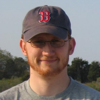
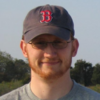
tweaks

diff --git a/_layouts/default.html b/_layouts/default.html
@@ -69,7 +69,7 @@ _kms('//i.kissmetrics.com/i.js');_kms('//doug1izaerwt3.cloudfront.net/eabaae3d40
 <body>
 	<div id="page" class="container xshowgrid">
     <div id="header" class="span-24">
-			<a href="/">graysky</a><span id="tagline">the blog of mike champion</span>
+			<a href="/">graysky</a><span id="tagline">interests &#62; time</span>
     </div>
     <hr />
 		
@@ -82,9 +82,9 @@ _kms('//i.kissmetrics.com/i.js');_kms('//doug1izaerwt3.cloudfront.net/eabaae3d40
 	{% if site.about_page != page.permalink %}
 
 	<h3>Welcome</h3>
-	<p>Hi, my name is <a href="/mike-champion">Mike Champion</a>. I work at <a href="http://oneforty.com">oneforty</a>, a web startup in Cambridge. <br /><a href="/mike-champion">Read more &raquo;</a>
-
-	<p><a href="http://twitter.com/graysky"><img src='/images/twitter_small.png' width='16px' height='16px' style="vertical-align:middle;border:0;margin:0 1px 4px 0;padding:0" /></a> <a href="http://twitter.com/graysky">Follow @graysky on Twitter</a></p>
+	<p>Hi, I'm <a href="/mike-champion">Mike Champion</a>. I work at <a href="http://oneforty.com">oneforty</a>, a web startup in Cambridge. <br /><a href="/mike-champion">Read more &raquo;</a>
+	
+	<p><a href="http://twitter.com/graysky"><img src='/images/twitter_small.png' width='16px' height='16px' style="vertical-align:middle;border:0;margin:0 1px 4px 0;padding:0" /></a> <a href="http://twitter.com/graysky">Follow me on Twitter</a></p>
 
 	<p><a href="http://feeds.feedburner.com/graysky"><img src='/images/feed16.png' width='16px' height='16px' style="vertical-align:middle;border:0;margin:0 1px 4px 0;padding:0" /></a> <a href="http://feeds.feedburner.com/graysky">Subscribe to RSS</a>
 	</p>

diff --git a/mike-champion.html b/mike-champion.html
@@ -6,7 +6,7 @@ layout: static
 
 <div class="clear">
   <div style="float: left;">
-  	<div class="flickr-frame" style="margin-top: 4px; margin-right: 16px;">
+  	<div class="flickr-frame profile-pic" style="margin-top: 4px; margin-right: 16px;">
 			<img src="/images/mike_champion2.png" class="flickr-photo-left" alt="Mike Champion"/>
   	</div>
   </div>

diff --git a/css/style.css b/css/style.css
@@ -327,3 +327,11 @@ tt, code {
   text-align:center;
   margin-bottom: 30px;
 }
+
+.profile-pic img {
+	border: 0px solid black; 
+	border-bottom-left-radius: 4px 4px;
+	border-bottom-right-radius: 4px 4px;
+	border-top-left-radius: 4px 4px;
+	border-top-right-radius: 4px 4px;
+}
